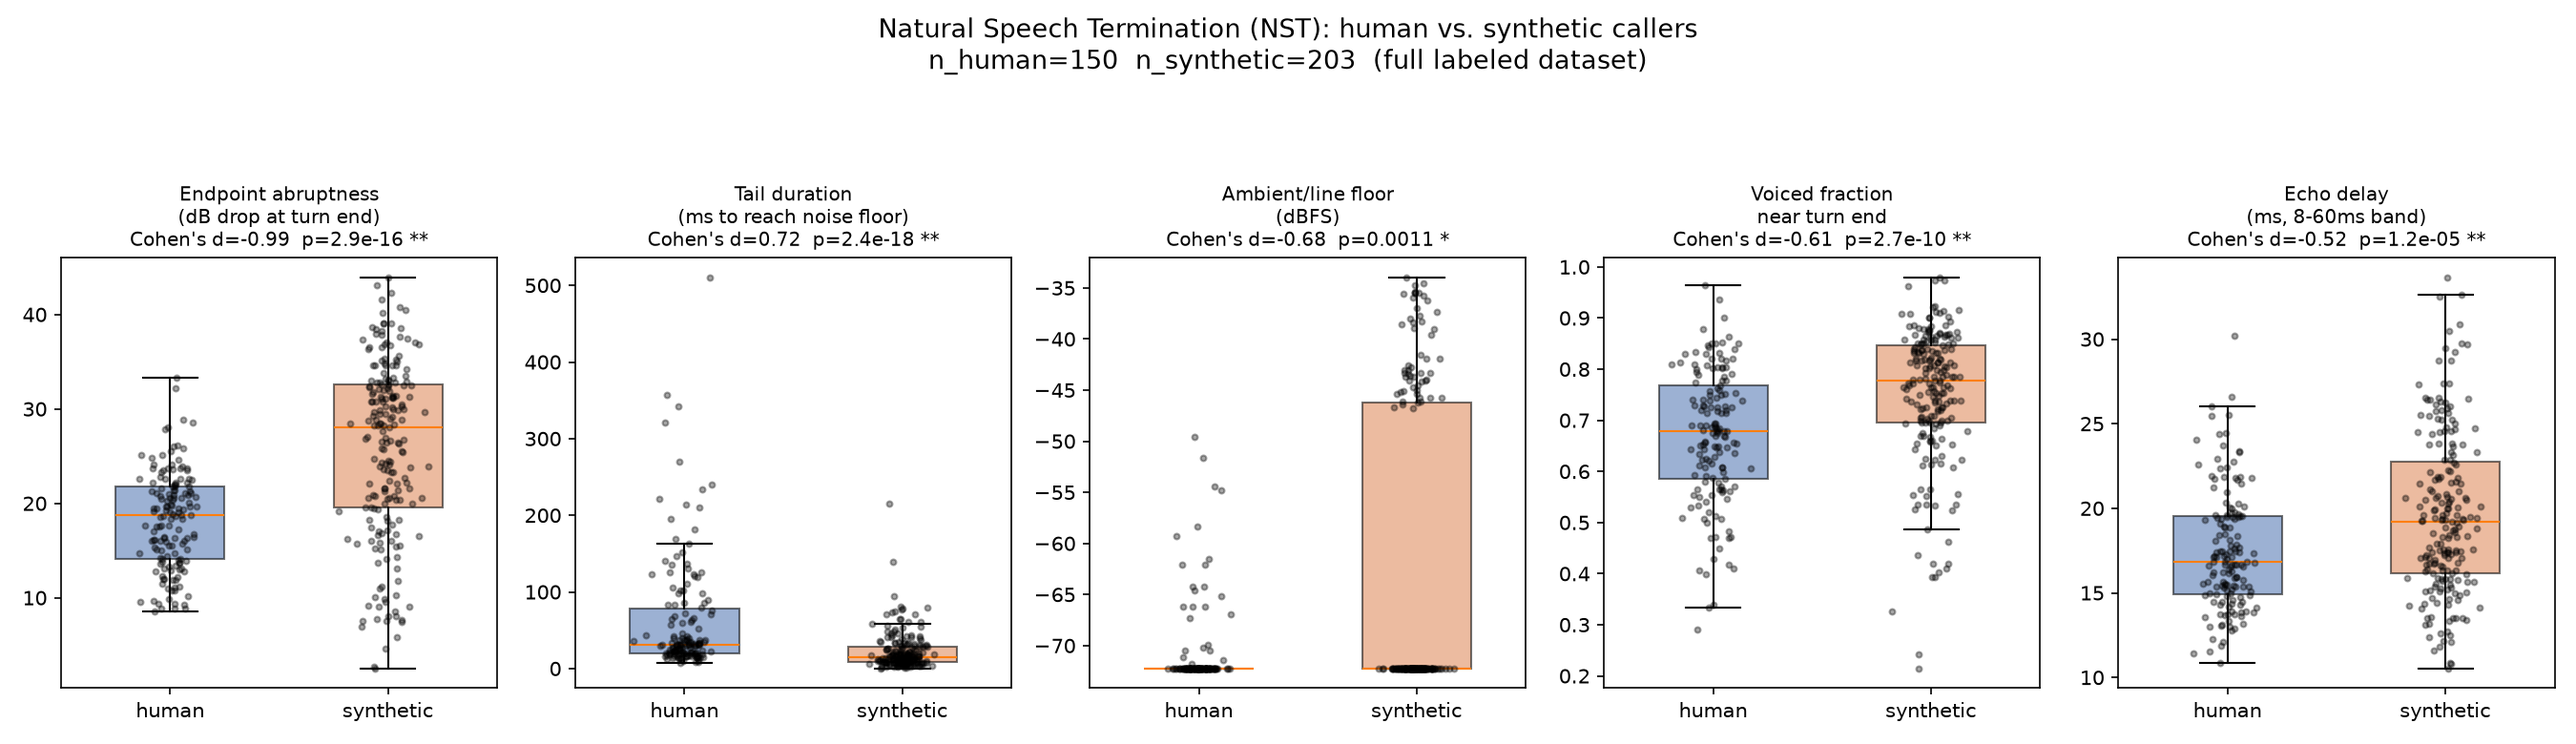
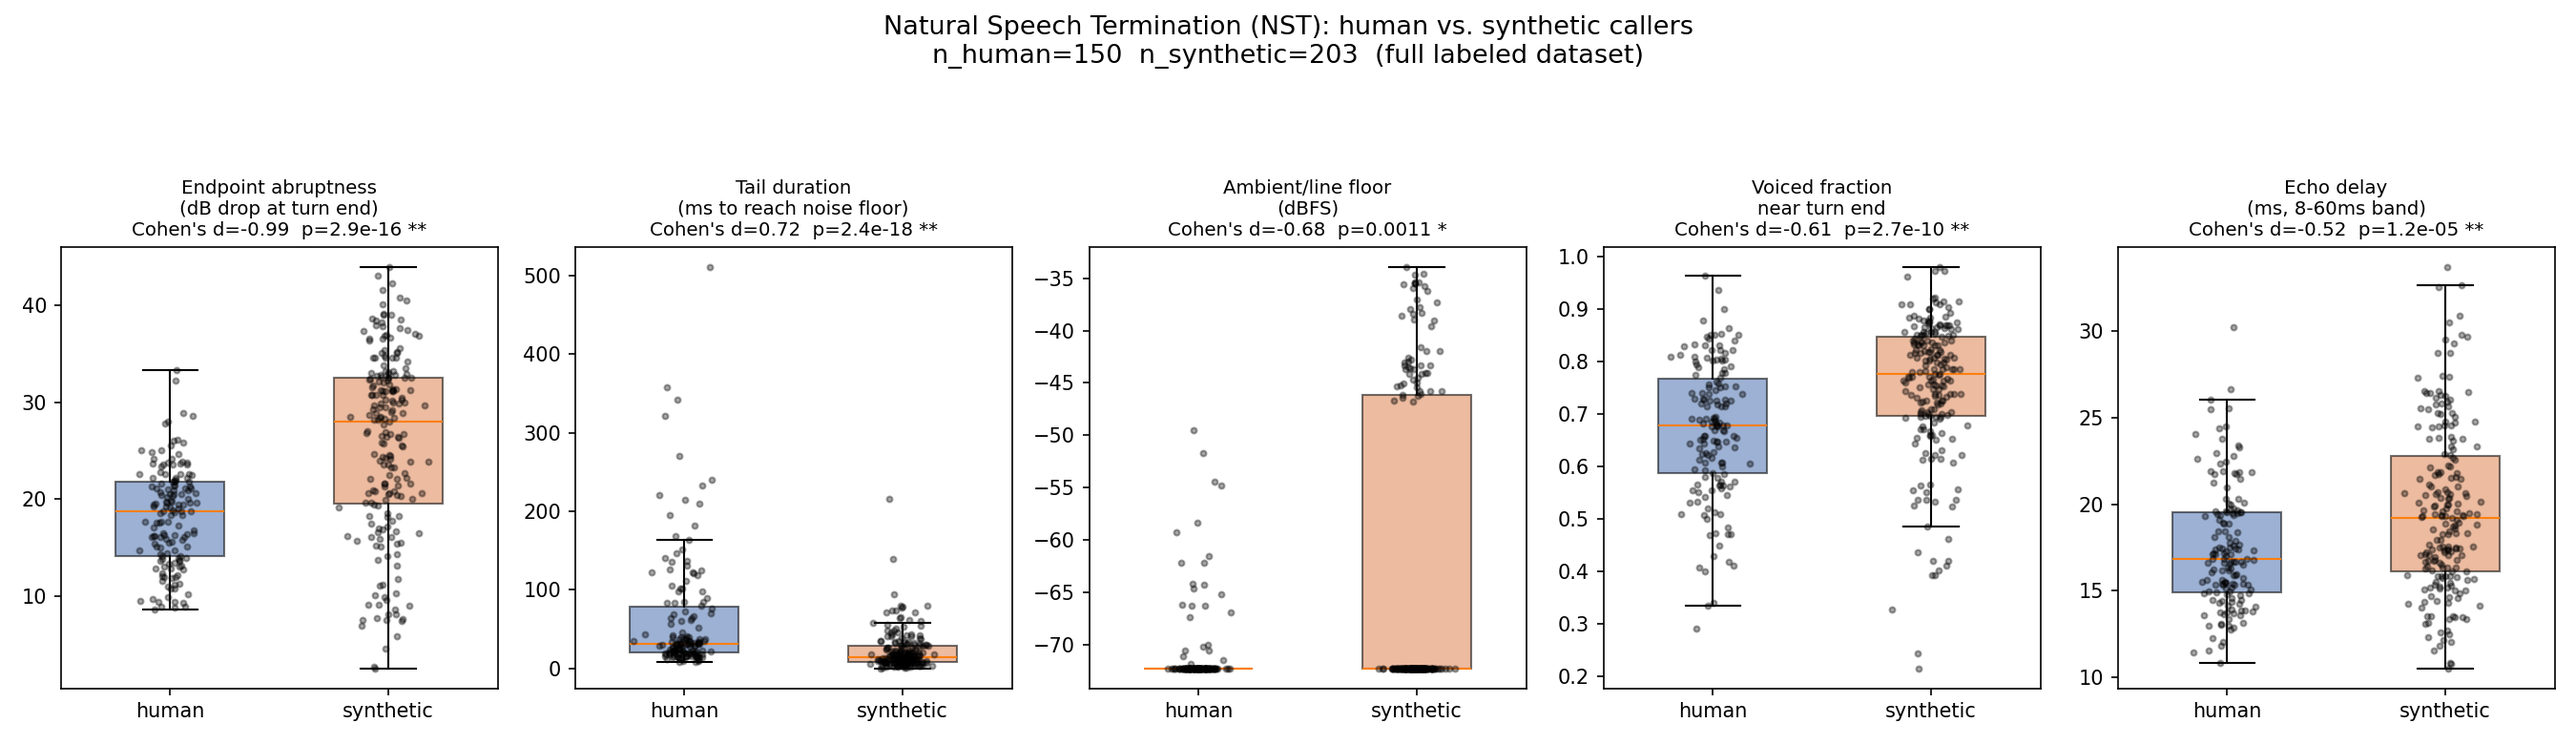
(Feature): python scripts/accuracy_stats.p to confidence + accuracy stats whole databasey

diff --git a/fastapi/scripts/accuracy_stats.py b/fastapi/scripts/accuracy_stats.py
@@ -1,0 +1,115 @@
+#!/usr/bin/env python3
+"""Confidence + accuracy statistics across the dataset, per feature family.
+
+Sends every call through the real /detect pipeline blind - the label is never
+given to the API, only used afterward, locally, to score the result. Reports:
+  - average confidence, per family and combined
+  - accuracy against the manifest label, per family and combined
+
+Automatically picks up whatever families appear in /detect's `breakdown` field,
+so adding a new feature family later needs no changes here.
+
+Run from the ``fastapi/`` directory:
+
+    python scripts/accuracy_stats.py                 # whole dataset (train+val)
+    python scripts/accuracy_stats.py --split val      # only the held-out val split
+    python scripts/accuracy_stats.py --split train
+    python scripts/accuracy_stats.py --limit 20       # quick subset, any split
+"""
+
+from __future__ import annotations
+
+import argparse
+import base64
+import csv
+import sys
+from collections import defaultdict
+from pathlib import Path
+
+import numpy as np
+
+FASTAPI_DIR = Path(__file__).resolve().parents[1]
+sys.path.insert(0, str(FASTAPI_DIR))
+
+from fastapi.testclient import TestClient  # noqa: E402
+
+from app.core import config  # noqa: E402
+from app.main import app  # noqa: E402
+
+Entry = tuple[bool, float, str]  # (correct, confidence, split)
+
+
+def load_rows(split: str, limit: int | None) -> list[dict]:
+    with open(config.HACKMTY26_DIR / "manifest.csv", newline="", encoding="utf-8") as f:
+        rows = list(csv.DictReader(f))
+    if split != "all":
+        rows = [r for r in rows if r["split"] == split]
+    if limit:
+        rows = rows[:limit]
+    return rows
+
+
+def report(entries: list[Entry], label: str) -> None:
+    if not entries:
+        print(f"  {label:28s} (no data)")
+        return
+    correct = [c for c, _, _ in entries]
+    conf = [cf for _, cf, _ in entries]
+    print(
+        f"  {label:28s} accuracy={np.mean(correct):.3f}  "
+        f"avg_confidence={np.mean(conf):.3f}  n={len(entries)}"
+    )
+
+
+def main() -> None:
+    parser = argparse.ArgumentParser(description=__doc__, formatter_class=argparse.RawDescriptionHelpFormatter)
+    parser.add_argument("--split", choices=["all", "train", "val"], default="all")
+    parser.add_argument("--limit", type=int, default=None)
+    args = parser.parse_args()
+
+    rows = load_rows(args.split, args.limit)
+    if not rows:
+        raise SystemExit("No matching calls found.")
+
+    stats: dict[str, list[Entry]] = defaultdict(list)
+    errors = 0
+
+    with TestClient(app) as client:
+        for i, r in enumerate(rows, start=1):
+            wav_path = config.HACKMTY26_DIR / "audio" / f"{r['anon_id']}.wav"
+            if not wav_path.exists():
+                errors += 1
+                continue
+            payload = base64.b64encode(wav_path.read_bytes()).decode()
+            resp = client.post("/detect", json={"audio_base64": payload})
+            if resp.status_code != 200:
+                errors += 1
+                continue
+            body = resp.json()
+            truth_synth = r["label"] == "synthetic"
+
+            stats["combined"].append((body["is_synthetic"] == truth_synth, body["confidence"], r["split"]))
+            for family, result in body["breakdown"].items():
+                stats[family].append((result["is_synthetic"] == truth_synth, result["confidence"], r["split"]))
+
+            if i % 25 == 0:
+                print(f"  ... {i}/{len(rows)} processed")
+
+    print(f"\nProcessed {len(rows)} calls ({errors} errors/skips)\n")
+
+    keys = ["combined"] + sorted(k for k in stats if k != "combined")
+
+    print(f"=== Overall ({args.split}) ===")
+    for key in keys:
+        report(stats[key], key)
+
+    if args.split == "all":
+        for split_name in ("train", "val"):
+            print(f"\n=== split={split_name} ===")
+            for key in keys:
+                sub = [(c, cf, s) for c, cf, s in stats[key] if s == split_name]
+                report(sub, key)
+
+
+if __name__ == "__main__":
+    main()
